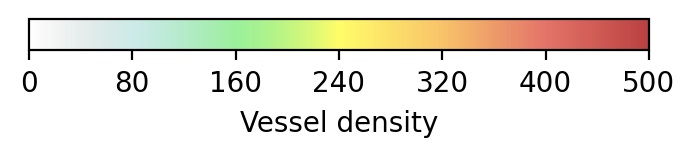
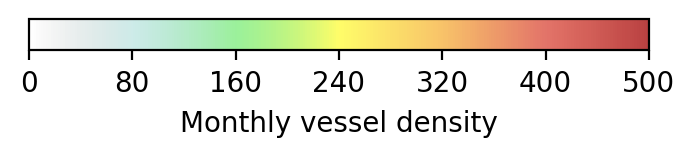
chore: fix usage of s1 for e1b

Changed region(s): [[0.2417, 0.6879, 0.7252, 0.8917]]

diff --git a/app/src/config/esa.js b/app/src/config/esa.js
@@ -186,10 +186,10 @@ const trucksFeatures = {
   areaFormatFunction: (area) => ({ area: wkt.read(JSON.stringify(area)).write() }),
 };
 
-const E1bConfigInputData = [{
+const E1bConfigInputDataAsc = [{
   dateFormatFunction: (date) => `${DateTime.fromISO(date).toFormat('yyyy-MM-dd')}/${DateTime.fromISO(date).plus({ days: 1 }).toFormat('yyyy-MM-dd')}`,
-  layers: 'SENTINEL-2-L2A-TRUE-COLOR',
-  name: 'Daily Sentinel 2 L2A',
+  layers: 'S1-GRD-IW-ASC-VV',
+  name: 'Daily Sentinel 1 VV Asc',
   minZoom: 7,
   maxZoom: 18,
   legendUrl: 'legends/esa/VIS_SENTINEL_1_VESSEL_DENSITY_EUROPE.png',
@@ -205,6 +205,24 @@ const E1bConfigInputData = [{
   opacity: 0.6,
 }];
 
+const E1bConfigInputDataDes = [{
+  dateFormatFunction: (date) => `${DateTime.fromISO(date).toFormat('yyyy-MM-dd')}/${DateTime.fromISO(date).plus({ days: 1 }).toFormat('yyyy-MM-dd')}`,
+  layers: 'S1-GRD-IW-DES-VV',
+  name: 'Daily Sentinel 1 VV Desc',
+  minZoom: 7,
+  maxZoom: 18,
+  legendUrl: 'legends/esa/VIS_SENTINEL_1_VESSEL_DENSITY_EUROPE.png',
+}, {
+  // get layer for this month
+  dateFormatFunction: (date) => `${DateTime.fromISO(date).set({ days: 1 })
+    .toFormat('yyyy-MM-dd')}/${DateTime.fromISO(date).set({ days: 1 }).plus({ months: 1 }).minus({ days: 1 })
+    .toFormat('yyyy-MM-dd')}`,
+  name: 'Monthly Aggregated Vessel density',
+  layers: 'VIS_SENTINEL_1_VESSEL_DENSITY_EUROPE',
+  minZoom: 6,
+  maxZoom: 14,
+  opacity: 0.6,
+}];
 
 export const indicatorsDefinition = Object.freeze({
   C1: {
@@ -726,10 +744,10 @@ export const layerNameMapping = Object.freeze({
   'Sentinel-5p Level-3 NO2': {
     layers: 'AWS_NO2-VISUALISATION',
   },
-  'S1A-GRD-IW-asc-VV': E1bConfigInputData,
-  'S1B-GRD-IW-asc-VV': E1bConfigInputData,
-  'S1A-GRD-IW-des-VV': E1bConfigInputData,
-  'S1B-GRD-IW-des-VV': E1bConfigInputData,
+  'S1A-GRD-IW-asc-VV': E1bConfigInputDataAsc,
+  'S1B-GRD-IW-asc-VV': E1bConfigInputDataAsc,
+  'S1A-GRD-IW-des-VV': E1bConfigInputDataDes,
+  'S1B-GRD-IW-des-VV': E1bConfigInputDataDes,
 });
 
 export const indicatorClassesIcons = Object.freeze({
